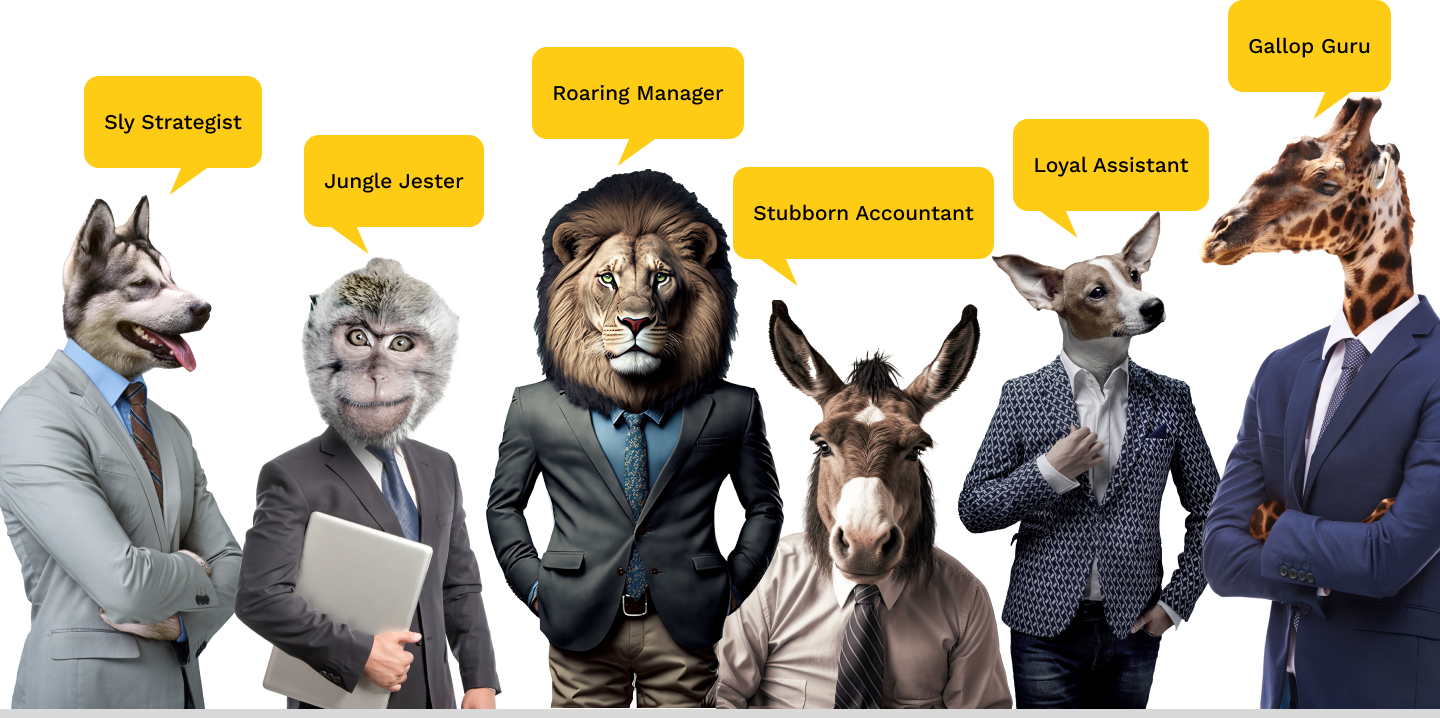
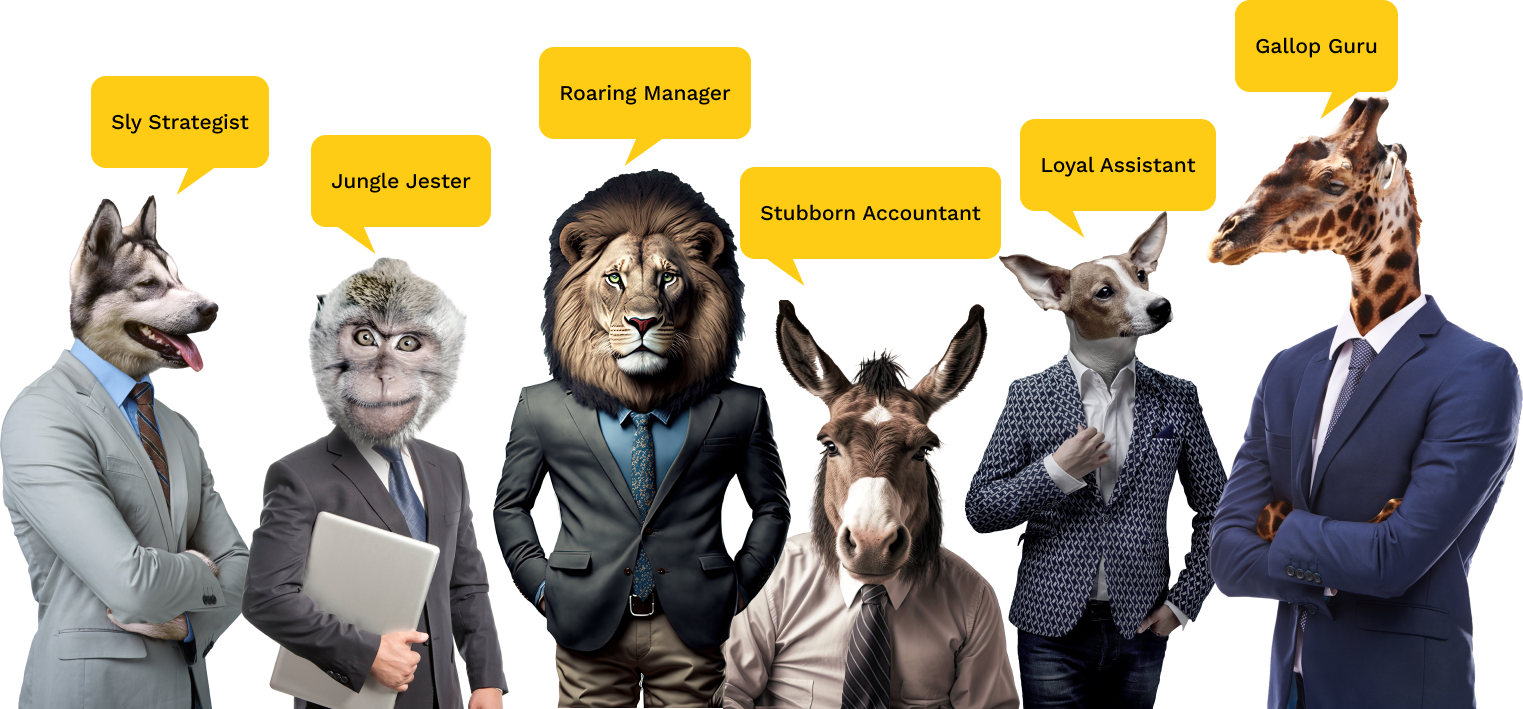
Styles and image updated

diff --git a/public/css/style.scss b/public/css/style.scss
@@ -40,7 +40,10 @@ h5 {
 }
 
 .b-section {
-	padding: 50px 0;
+	padding: 100px 0;
+	@include media-breakpoint-down('sm') {
+		padding: 50px 0;
+	}
 }
 
 .b-accordion-flush {
@@ -280,9 +283,7 @@ h5 {
 .b-banner-section {
 	font-family: $bebas;
 	text-align: center;
-	@include media-breakpoint-down('sm') {
-		padding: 0;
-	}
+	padding: 50px 0;
 	.b-bubble-background {
 		position: absolute;
 		top: 190px;
@@ -466,14 +467,14 @@ h5 {
 	}
 	// TODO: Fix banner image
 	.b-banner-image-section {
-		margin-top: 2rem;
+		margin-top: 5rem;
 		position: relative;
 		.b-banner-images {
 			display: flex;
 			justify-content: center;
 			img {
 				width: 100%;
-				height: 620px;
+				height: 660px;
 			}
 			@include media-breakpoint-down('md') {
 				display: none;
@@ -560,8 +561,8 @@ h5 {
 .b-social-proof-section {
 	background: $theme-yellow-gradient;
 	overflow: auto;
-	.b-flex-container{
-		@include media-breakpoint-up('sm'){
+	.b-flex-container {
+		@include media-breakpoint-up('sm') {
 			padding: 50px 0;
 		}
 	}
@@ -597,7 +598,7 @@ h5 {
 		h3 {
 			font-weight: $medium;
 			margin-bottom: 20px;
-			@include media-breakpoint-down('md'){
+			@include media-breakpoint-down('md') {
 				margin-bottom: 10px;
 			}
 		}

diff --git a/src/components/Layout.tsx b/src/components/Layout.tsx
@@ -13,7 +13,7 @@ const Layout: React.FC<LayoutProps> = ({ children }) => {
     <>
       <Header>
         <Toaster position="bottom-center" />
-        <Navbar />
+        {/* <Navbar /> */}
         {children}
       </Header>
       <Footer />
